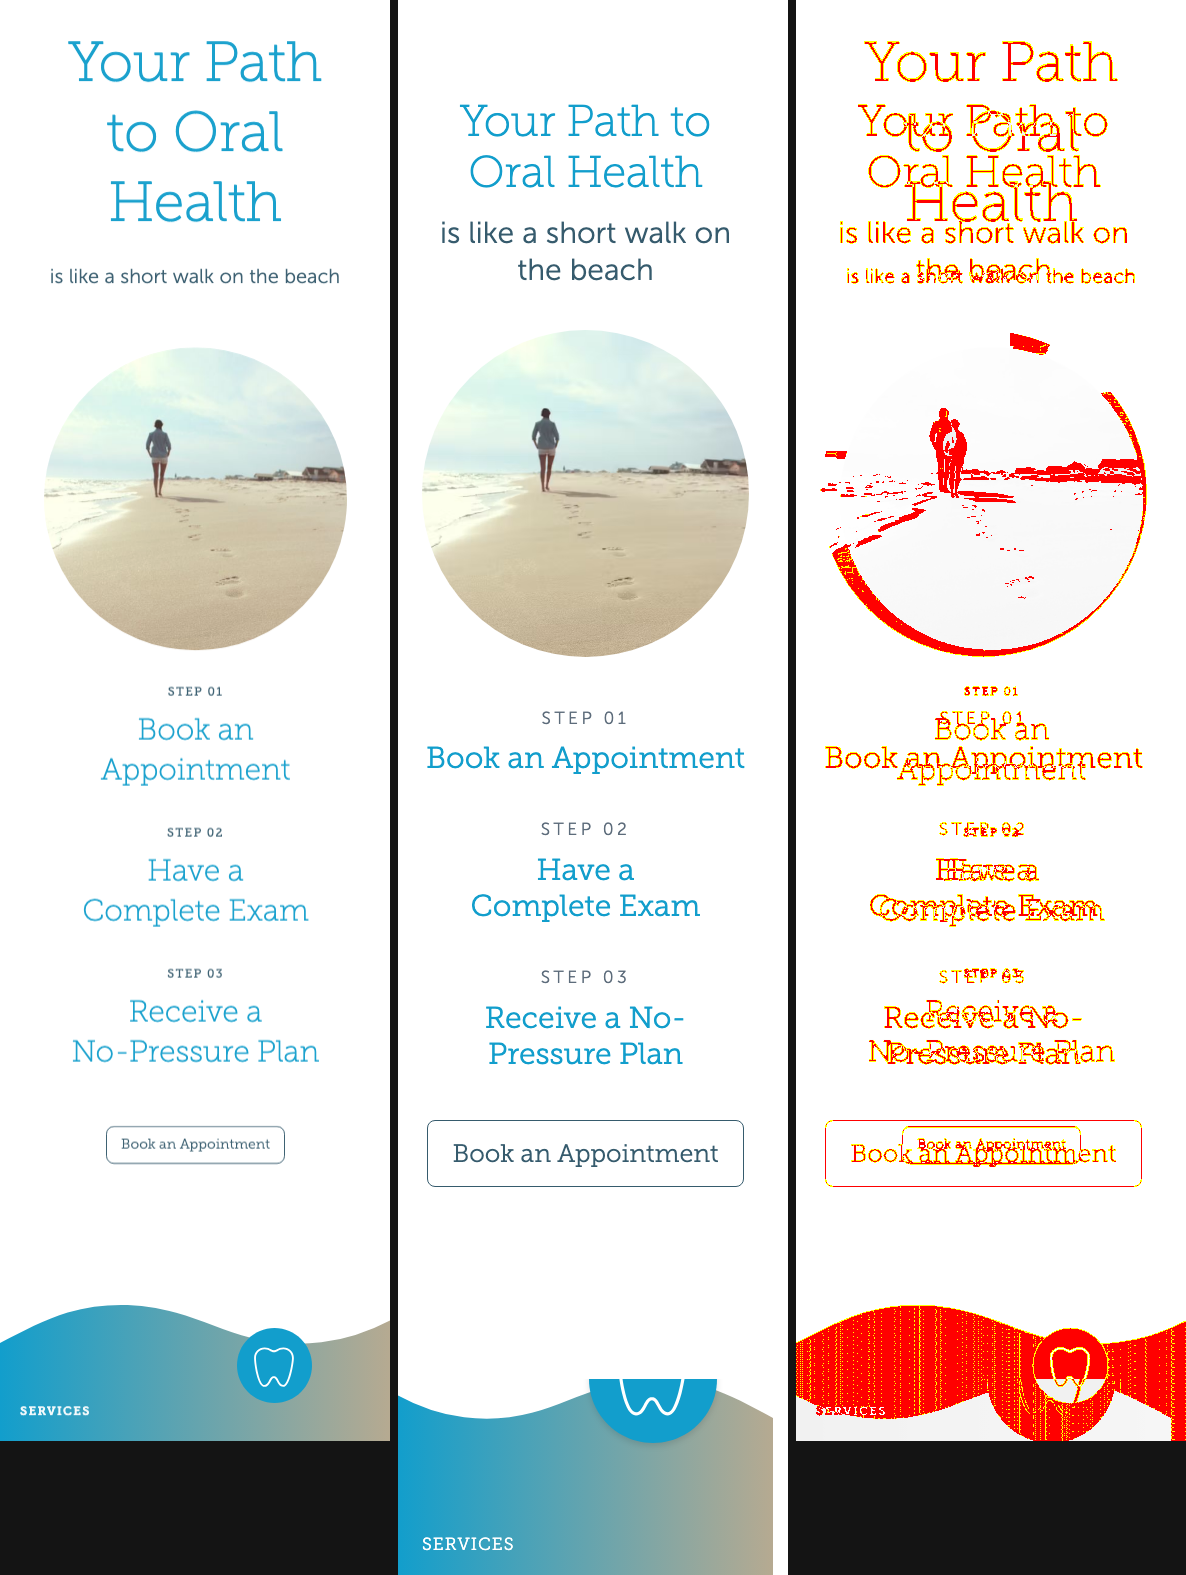
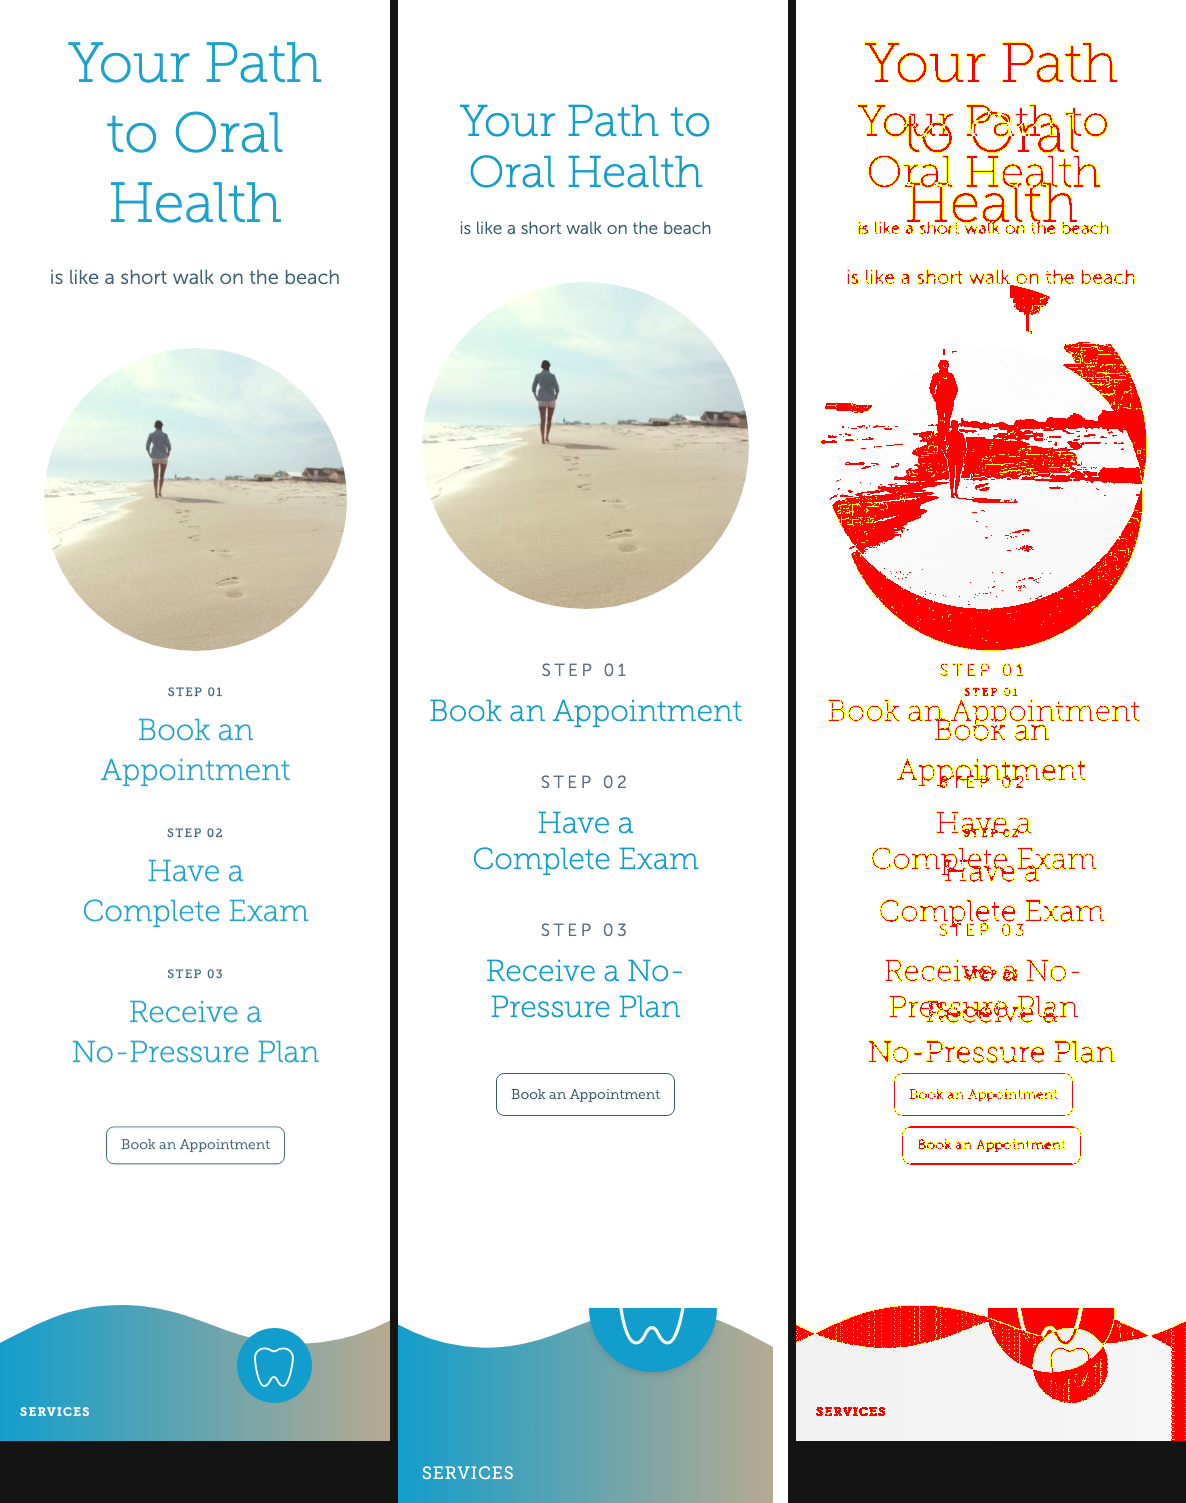
fix(design): mobile Your Path step band matches live's type scale
Live's steps band on mobile uses much smaller supporting type than the desktop
sizes we were rendering at every width:
- Subtitle 'is like a short walk on the beach' 30px -> 20px/30px (live), so it
  stays one line; desktop keeps 30px. Also drops the inline font-size — the
  global main :where(p) rule is 0-specificity so a text-[] utility outranks it.
- STEP label 14px -> 12px (lg:14px).
- Step titles font-light(300) -> font-thin(100) to match live's weight-100 cyan.
- 'Book an Appointment' CTA 25px -> compact 14px on mobile (live 179x38); desktop
  keeps 25px.

Region holds at ~10% (dE 6.1->5.6): residual is the display heading's font-width
wrap (live wraps to 3 lines, ours to 2 — enlarging to force 3 overshoots) plus
the photo-source beach circle. SectionGrid tests 5/5 green.

diff --git a/src/lib/slices/SectionGrid/index.svelte b/src/lib/slices/SectionGrid/index.svelte
@@ -214,12 +214,11 @@
           </h2>
         {/if}
         {#if primary.subtitle}
-          <!-- Inline font-size: the unlayered global `main p` rule outranks any
-               Tailwind text utility (unlayered beats @layer), so the 30px live
-               subtitle size has to be set inline to win. -->
+          <!-- Live subtitle is 20px/30px on mobile, 30px on desktop. The global
+               `main :where(p)` rule is 0-specificity (:where), so an arbitrary
+               text-[] utility outranks it — no inline needed. -->
           <p
-            class="mt-4 text-center font-light text-[#365b6d]"
-            style="font-size:1.875rem;line-height:1.25"
+            class="mt-4 text-center text-[20px] leading-[30px] font-light text-[#365b6d] lg:text-[30px] lg:leading-[1.25]"
           >
             {primary.subtitle}
           </p>
@@ -238,12 +237,13 @@
     <ol class="mt-12 grid grid-cols-1 gap-10 text-center sm:grid-cols-3">
       {#each items as item, i (item)}
         <li>
+          <!-- Live step label 12px/400; step title 30px/40px weight-100 cyan. -->
           <p
-            class="text-secondary text-sm font-bold tracking-[0.2em] uppercase"
+            class="text-secondary text-xs font-bold tracking-[0.2em] uppercase lg:text-sm"
           >
             Step {pad2(i + 1)}
           </p>
-          <h3 class="h-primary font-slab mt-2 text-3xl font-light">
+          <h3 class="h-primary font-slab mt-2 text-3xl font-thin">
             {asText(item.item_heading)}
           </h3>
           {#if isFilled.richText(item.item_body)}
@@ -258,7 +258,7 @@
       <div class="mt-12 text-center">
         <PrismicLink
           field={primary.cta_link}
-          class="font-slab hover:border-primary hover:text-primary-deep focus-visible:ring-primary-deep inline-block rounded-lg border border-[#365b6d] px-[25px] py-[14px] text-[25px] font-light text-[#365b6d] transition-colors focus-visible:ring-2 focus-visible:ring-offset-2 focus-visible:outline-hidden"
+          class="font-slab hover:border-primary hover:text-primary-deep focus-visible:ring-primary-deep inline-block rounded-lg border border-[#365b6d] px-[14px] py-[10px] text-[14px] font-light text-[#365b6d] transition-colors focus-visible:ring-2 focus-visible:ring-offset-2 focus-visible:outline-hidden lg:px-[25px] lg:py-[14px] lg:text-[25px]"
         >
           {primary.cta_label}
         </PrismicLink>
